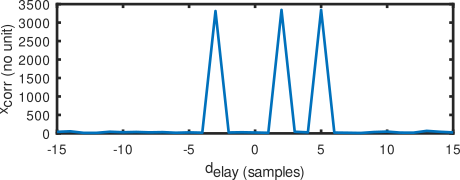
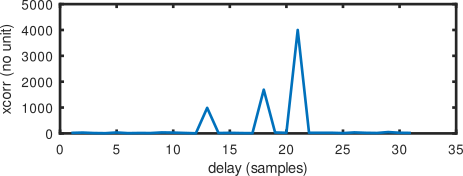
weighted interference

diff --git a/blas/demo6_matrix_xcorr.cpp b/blas/demo6_matrix_xcorr.cpp
@@ -51,9 +51,9 @@ int main(int argc, char *argv[])
       }
   printf("\n");
   for (m=0;m<nobs-5;m++)          // time shifted copies of the code
-      {host_val[m+2]+=host_code[m]; // m+4 = ...
-       host_val[m+5]+=host_code[m];
-       host_val[m]+=host_code[m+3];
+      {host_val[m+2]+=0.5*host_code[m]; // m+4 = ...
+       host_val[m+5]+=1.2*host_code[m];
+       host_val[m]+=0.3*host_code[m+3];
       }
   for (m=0;m<nlag;m++)          // time shifted copies of the code
     {pwr=cblas_zdotc(nobs, host_val+m, 1, host_code, 1);
